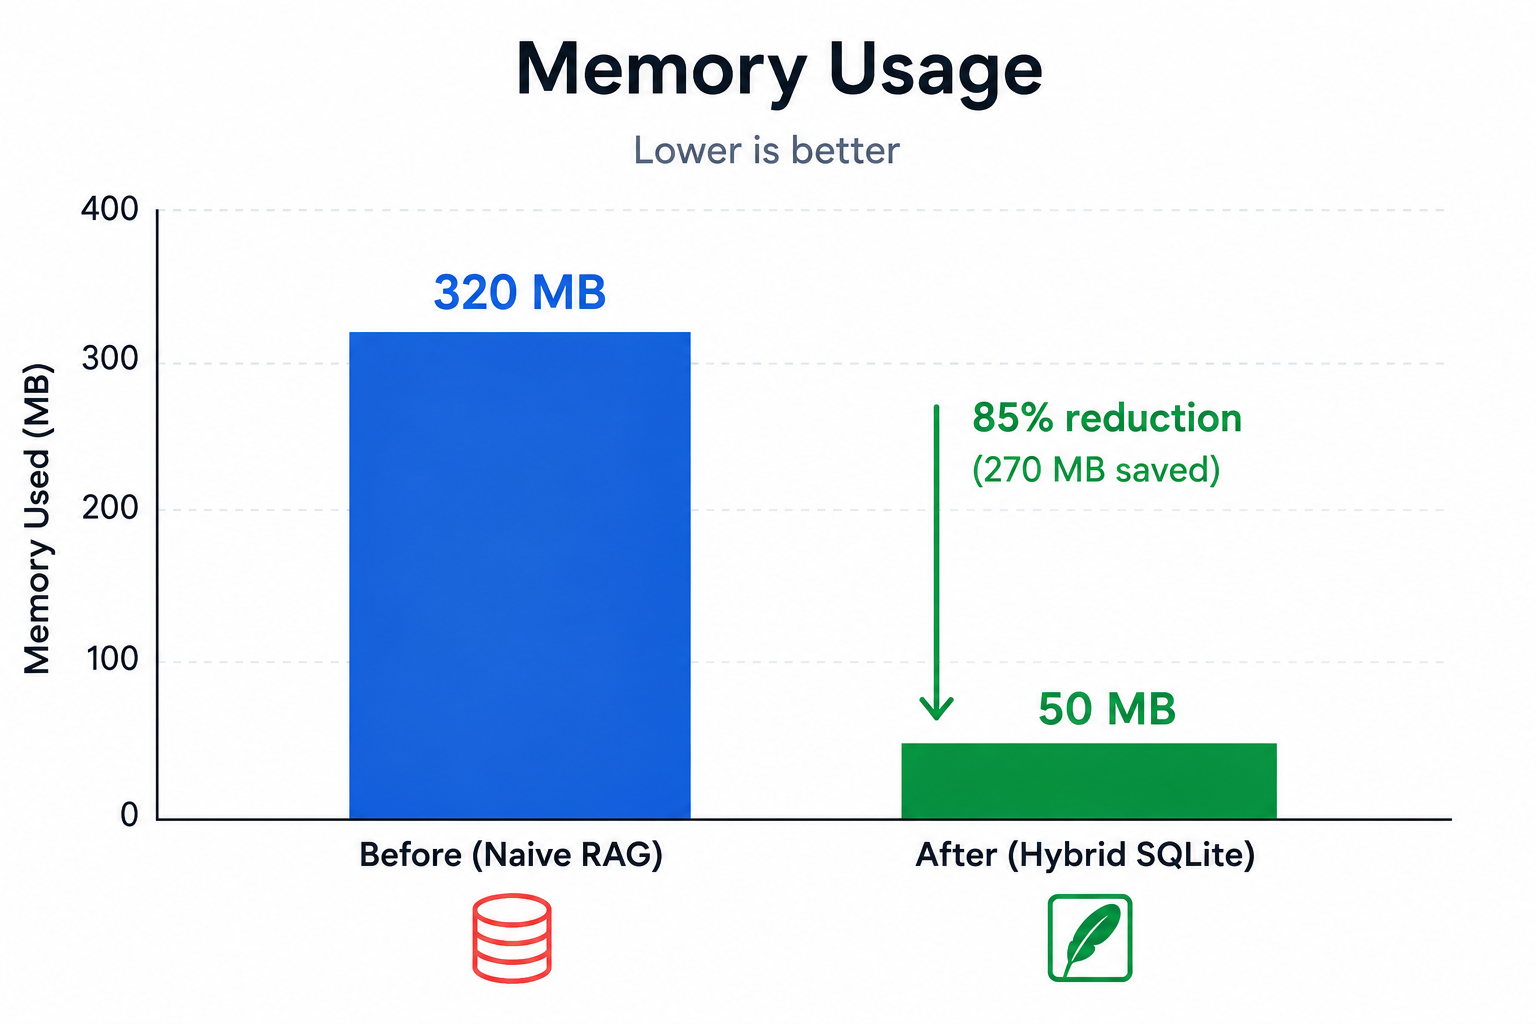
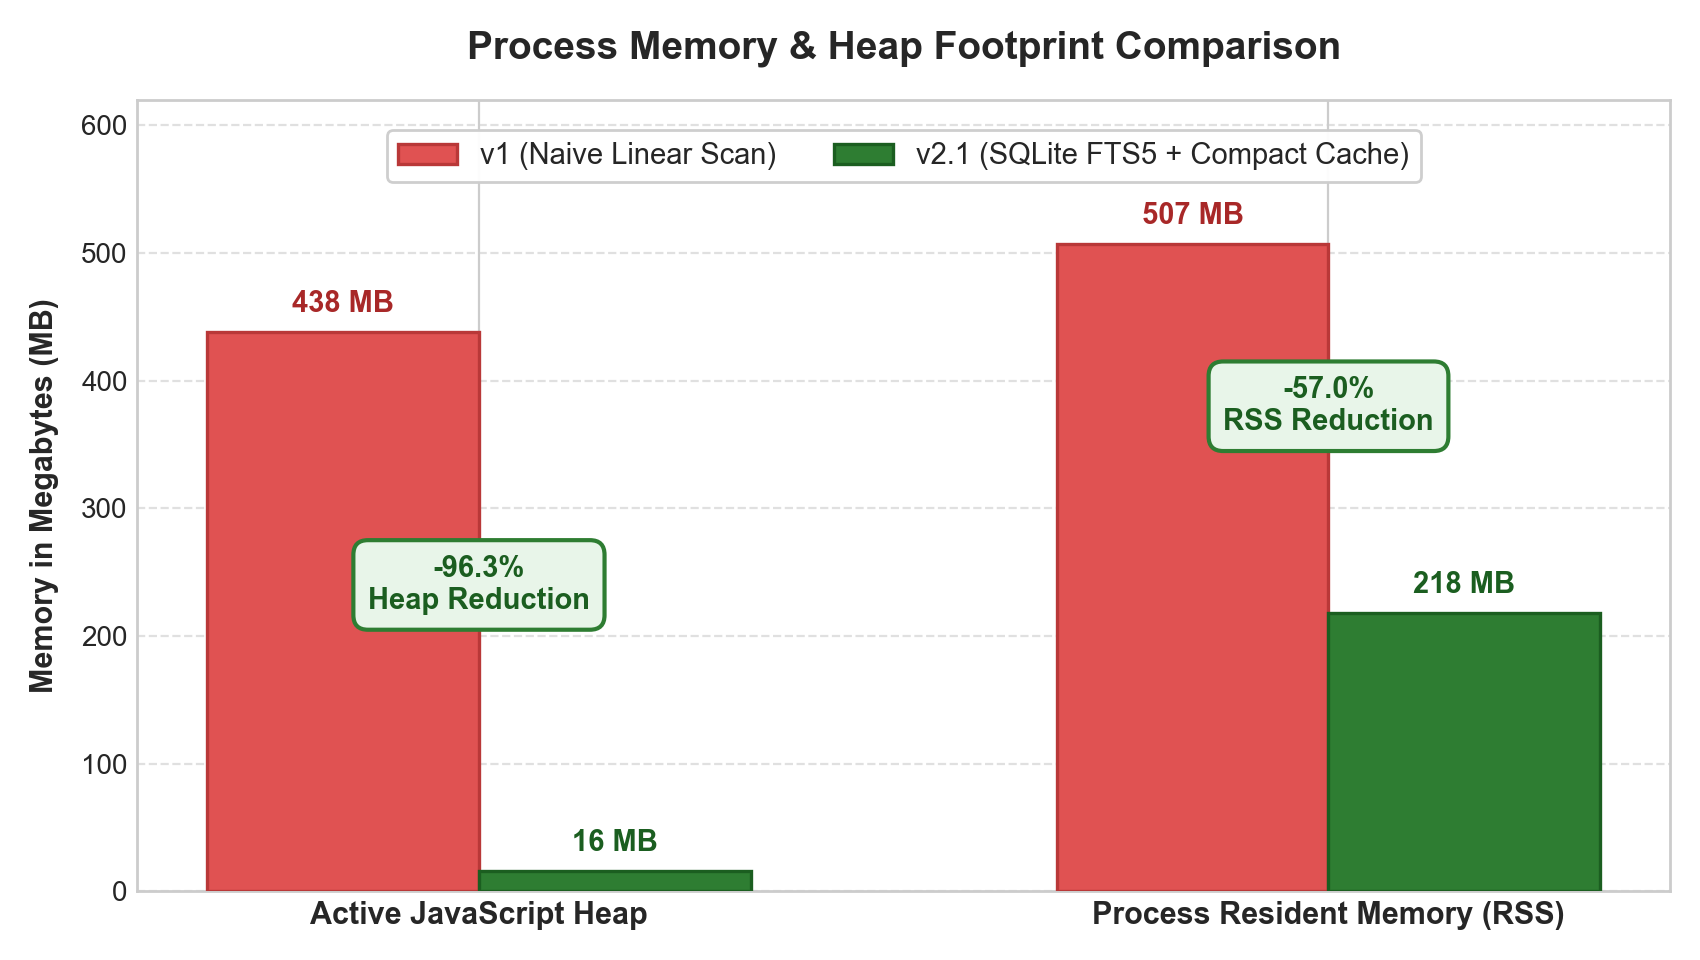
feat(blog): address review feedback on article formatting, metrics, and assets

diff --git a/content/blog/sqlite-fts5-dense-hybrid-retrieval.md b/content/blog/sqlite-fts5-dense-hybrid-retrieval.md
@@ -10,7 +10,7 @@ cover: /img/blog/sqlite-fts5-dense-hybrid-retrieval/cover.jpg
 tags: ["ai", "rag", "search", "sqlite"]
 ---
 
-I asked my legal assistant prototype a simple question:
+I asked LawDecoder, my open-source legal assistant prototype, a simple question:
 
 > *"Someone forged my signature."*
 
@@ -42,7 +42,7 @@ The vector embedding model was not broken. It was doing exactly what it was trai
 
 Because words like *"forgery"*, *"signature"*, and *"counterfeit"* live in the same broad conceptual neighborhood of fraud, the retriever ranked counterfeit coin provisions above the actual definition of document forgery. The model generalized too aggressively, missing `BNS Section 336` because the word *"signature"* was semantically distant from generic statutory descriptions.
 
-```
+```text
 Vector-Only Search (Fails on exact terms):
 Query ──> Embedding Model ──> Vector DB ──> Generalized Results (e.g. Counterfeit Coins)
 
@@ -91,7 +91,7 @@ Think of SQLite as storage on disk, and RAM as your active working set.
 
 In a standard prototype, developers often load full document strings, metadata, and embeddings directly into application memory.
 
-```
+```text
 Before (v1: ~438 MB Heap / ~500 MB RSS):
 162 MB JSON file on disk
        ↓
@@ -111,6 +111,8 @@ SQLite Database (Disk: 16.4 MB)
 Application RAM
   └── Section IDs + compact 384-dimension Float32Array vectors (7.17 MB raw buffer)
 ```
+
+![Process Resident Memory (RSS) and Heap comparison between v1 and v2](/img/blog/sqlite-fts5-dense-hybrid-retrieval/chart_memory.png)
 
 The important architectural change was not simply using SQLite. We stopped loading the entire legal corpus as JavaScript objects. The full text stays on disk, while only the compact vector representation needed for scoring stays in memory.
 
@@ -175,7 +177,7 @@ const vectorCache = [
 ];
 ```
 
-For 4,892 legal sections, 4,892 vectors $\times$ 384 dimensions $\times$ 4 bytes per float equals **7.17 MB** of raw vector data in RAM. When a user submits a query, we compute cosine similarity against this typed cache using a tight numeric loop to produce the top 50 semantic candidates.
+For 4,892 legal sections, 4,892 vectors × 384 dimensions × 4 bytes per float equals **7.17 MB** of raw vector data in RAM. When a user submits a query, we compute cosine similarity against this typed cache using a tight numeric loop to produce the top 50 semantic candidates.
 
 ---
 
@@ -224,7 +226,7 @@ To evaluate the system, we tested the retrieval pipeline across a corpus of **4,
 ### Benchmark Setup & Environment
 
 * **Processor:** AMD Ryzen 5 5600H (6 cores, 12 threads)
-* **Runtime:** Node.js v22.16, `better-sqlite3` v3.53 in WAL mode
+* **Runtime:** Node.js v22.16, `better-sqlite3` v12.11 (SQLite 3.53) in WAL mode
 * **Embedding Model:** `Xenova/all-MiniLM-L6-v2` (384-dimensional vectors)
 * **Corpus Size:** 4,892 legal sections in SQLite (16.4 MB file)
 * **Memory Measurement:** Process-level resident memory (RSS) and active V8 heap allocations
@@ -273,6 +275,8 @@ Dense + FTS5 (RRF):     90% (9/10)
 | **Stage 3: Hybrid Search (RRF)** | 90% (9/10) | High recall; combines exact statutory terminology with colloquial layman phrasing. |
 | **Stage 4: Full Pipeline (+ Domain Reranker)** | 90% (9/10) | Maintains 90% recall while cleanly prioritizing document forgery statutes over counterfeit coin laws for signature queries. |
 
+While a 10-query evaluation set is an indicative domain benchmark rather than a statistically settled aggregate, it spans key representative practice areas—criminal law, criminal procedure, cyber crime, family law, evidence law, and consumer protection—specifically selected to stress-test known retrieval edge cases like semantic drift, overlapping statutory codes, and duplicate provisions.
+
 In this evaluation, the biggest retrieval improvement came from combining two complementary search methods. The domain reranker did not increase aggregate accuracy on this set, but it provided a useful deterministic guardrail for a known failure mode: for the signature-forgery query, the reranker demoted the counterfeit-currency candidates and promoted document-forgery provisions to the top of the final ranking.
 
 ---
@@ -289,9 +293,13 @@ Because this architecture runs locally without a separate server, it fits neatly
 
 ## System Screens
 
-### Developer Mode & Citations
+### Developer Mode & Live Citations
 Transparent citation view with the Developer Mode toggle enabled, showing retrieval selection methods, BM25 matches, and fused RRF ranks for the top 5 retrieved sections:
 ![LawDecoder citation view in developer mode displaying RRF ranks and selection reasons](/img/blog/sqlite-fts5-dense-hybrid-retrieval/citations_view.png)
+
+### Developer Notes & Benchmark Dashboard
+Evaluation and benchmark dashboard in Developer Mode, tracking latency comparisons, memory footprint reductions, and component hit rates:
+![LawDecoder developer dashboard showing performance comparisons and benchmark results](/img/blog/sqlite-fts5-dense-hybrid-retrieval/developer_notes_tab.png)
 
 ---
 
@@ -317,9 +325,11 @@ The complete source code, SQLite indexing pipeline, and standalone benchmark har
 
 **GitHub Repository:** https://github.com/ishwar170695/LawDecoder
 
-You can run the controlled benchmark and ablation study locally:
+You can run the controlled benchmark and ablation study locally (note that running the benchmark requires the SQLite database and vector embeddings generated during backend initialization):
 
 ```bash
 cd backend
-npm run benchmark
+npm install
+node server.js      # Automatically compiles laws.db and vectors on first boot
+npm run benchmark   # Runs the 4-stage ablation and latency evaluation
 ```
